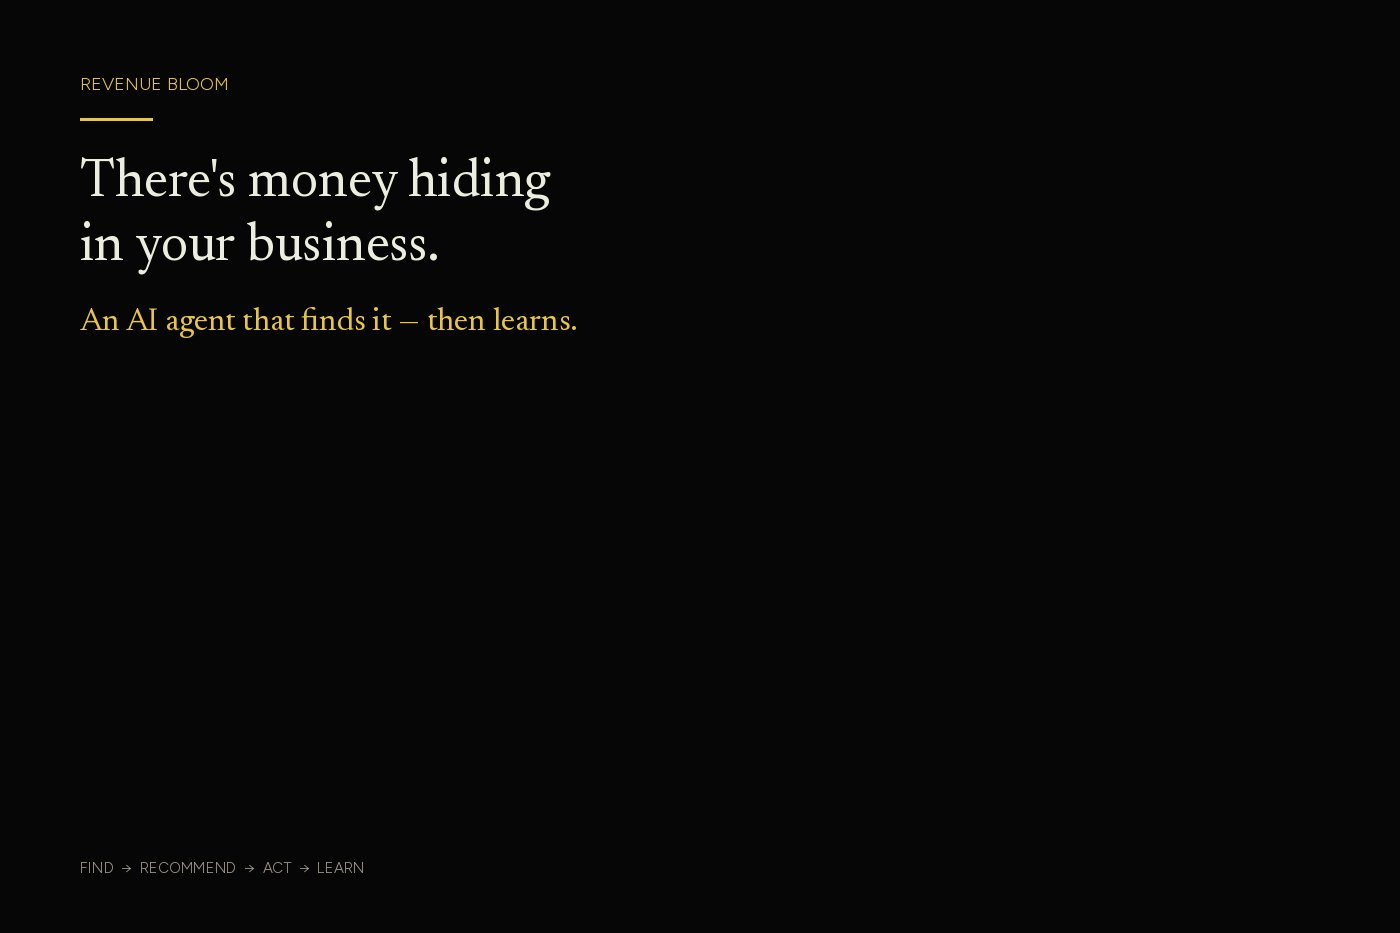
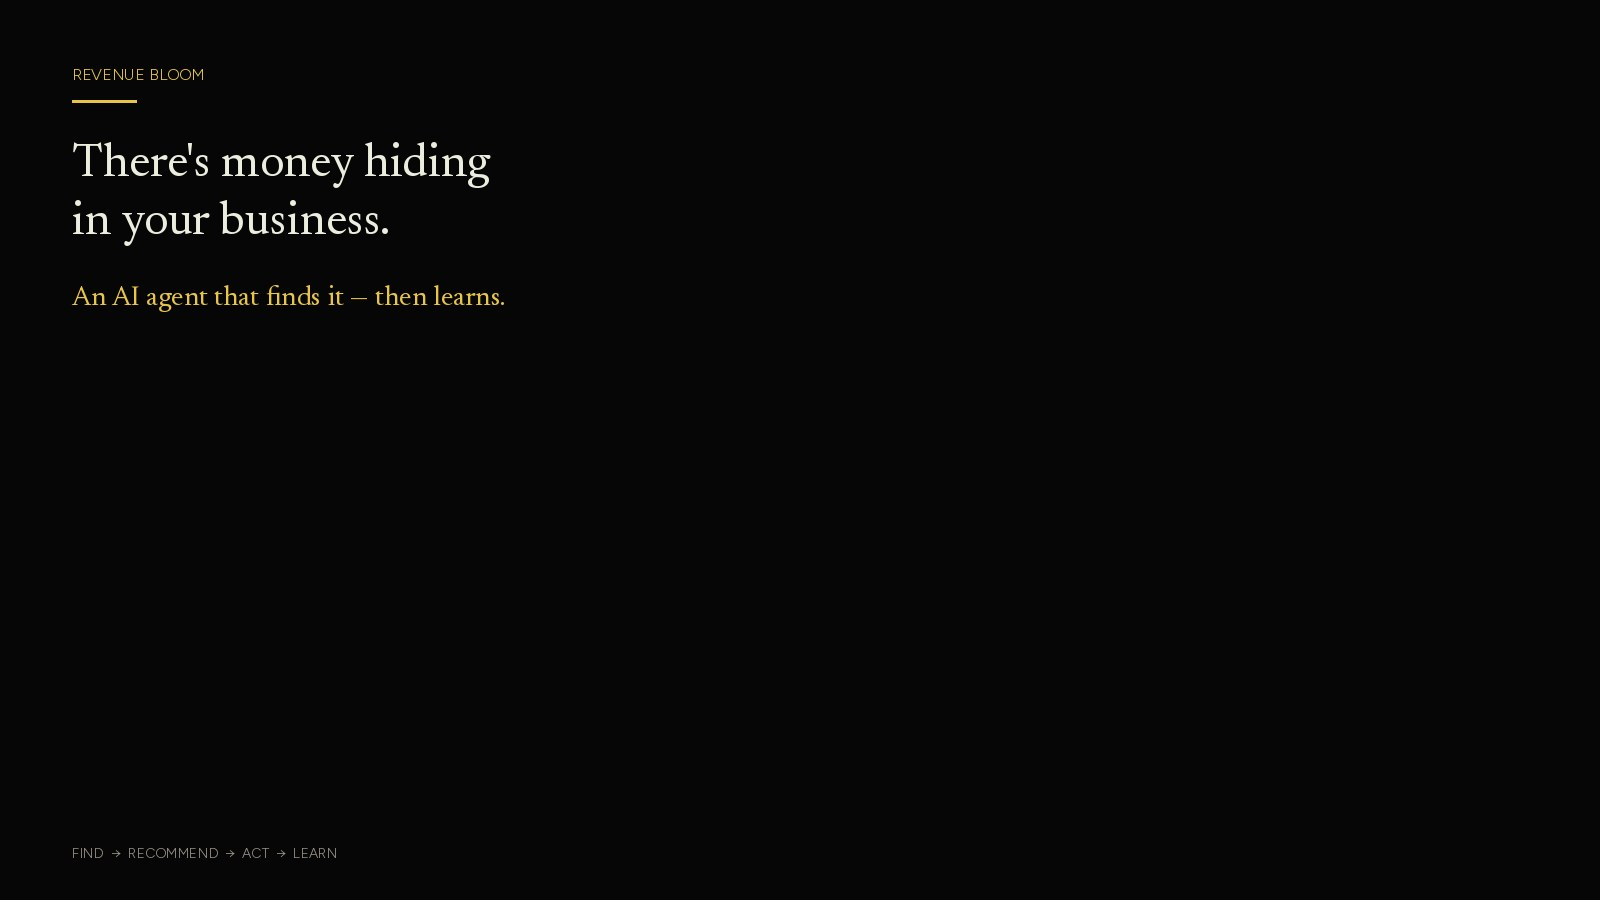
Fix thumb sizing: fixed type grid + contain (#6)
* Fixed type grid: Revenue Bloom

* Fixed type grid: Demand More Supply

* Fixed type grid: The ads

* Fixed type grid: Also

* Feature thumbs: object-fit contain, matching black bg

Changed region(s): [[0.0307, 0.0622, 0.3993, 0.28], [0.0307, 0.3111, 0.3993, 0.3733], [0.0614, 0.9022, 0.215, 0.9644]]

diff --git a/css/site.css b/css/site.css
@@ -115,11 +115,11 @@ img { max-width: 100%; display: block; height: auto; }
   display: block;
 }
 .feature .thumb {
-  background: #1a1816;
-  aspect-ratio: 16/9;
+  background: #060606;
+  aspect-ratio: 16 / 9;
   overflow: hidden;
 }
-.feature img { width: 100%; height: 100%; object-fit: cover; transition: transform .4s ease; }
+.feature img { width: 100%; height: 100%; object-fit: contain; object-position: center center; transition: transform .4s ease; }
 .feature:hover img { transform: scale(1.02); }
 .feature .meta {
   padding: 1rem 0 0;
